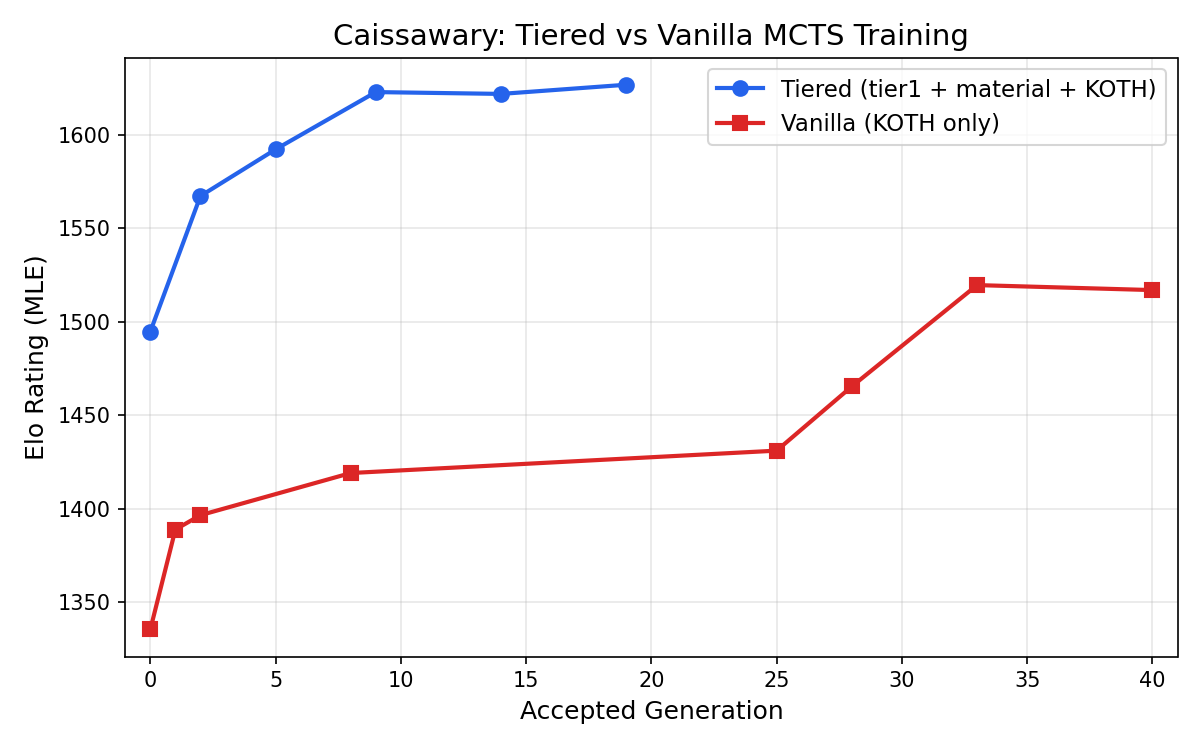
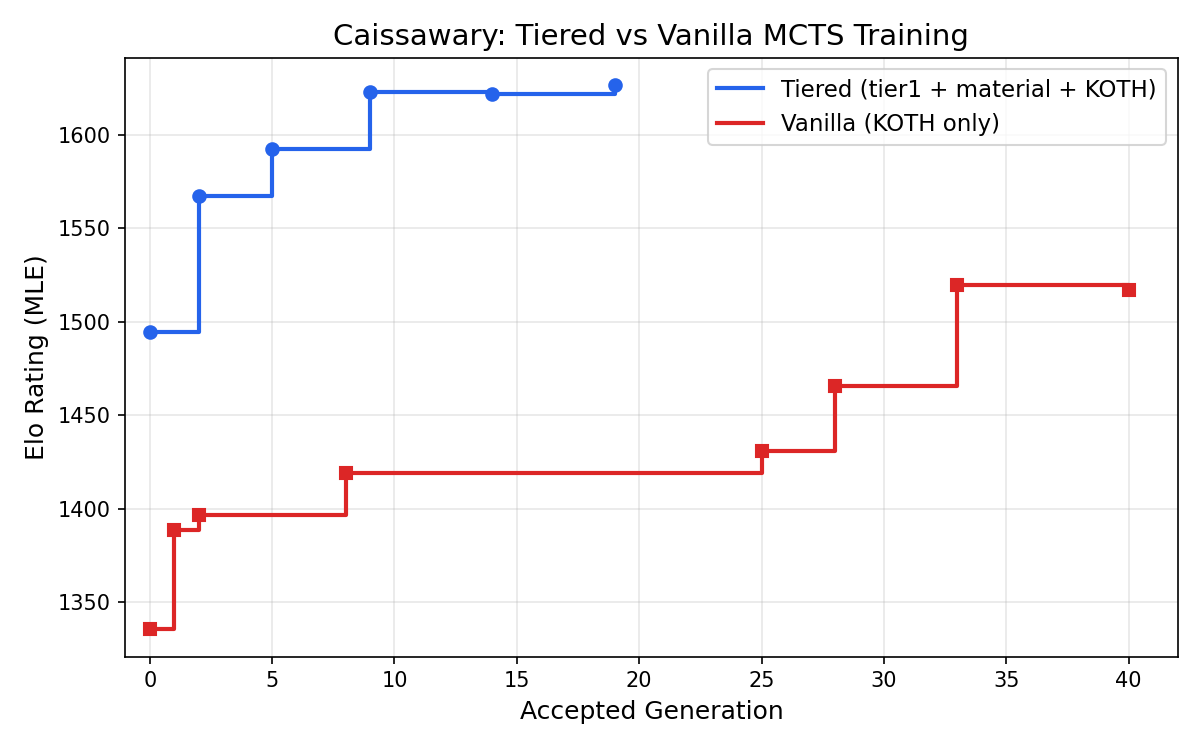
Use step plot for Elo-vs-generation chart

diff --git a/scripts/plot_tournament.py b/scripts/plot_tournament.py
@@ -106,19 +106,21 @@ def main():
     vanilla_gens = sorted(vanilla.keys())
     vanilla_elos = [vanilla[g] for g in vanilla_gens]
 
-    # Plot
+    # Plot as step functions: Elo is constant between accepted generations
     fig, ax = plt.subplots(figsize=(8, 5))
-    ax.plot(tiered_gens, tiered_elos, "o-", color="#2563eb", linewidth=2,
-            markersize=7, label="Tiered (tier1 + material + KOTH)", zorder=3)
-    ax.plot(vanilla_gens, vanilla_elos, "s-", color="#dc2626", linewidth=2,
-            markersize=7, label="Vanilla (KOTH only)", zorder=3)
+    ax.step(tiered_gens, tiered_elos, where="post", color="#2563eb", linewidth=2,
+            label="Tiered (tier1 + material + KOTH)", zorder=3)
+    ax.plot(tiered_gens, tiered_elos, "o", color="#2563eb", markersize=6, zorder=4)
+    ax.step(vanilla_gens, vanilla_elos, where="post", color="#dc2626", linewidth=2,
+            label="Vanilla (KOTH only)", zorder=3)
+    ax.plot(vanilla_gens, vanilla_elos, "s", color="#dc2626", markersize=6, zorder=4)
 
     ax.set_xlabel("Accepted Generation", fontsize=12)
     ax.set_ylabel("Elo Rating (MLE)", fontsize=12)
     ax.set_title("Caissawary: Tiered vs Vanilla MCTS Training", fontsize=14)
     ax.legend(fontsize=11)
     ax.grid(True, alpha=0.3)
-    ax.set_xlim(-1, max(max(tiered_gens), max(vanilla_gens)) + 1)
+    ax.set_xlim(-1, max(max(tiered_gens), max(vanilla_gens)) + 2)
 
     plt.tight_layout()
     out_path = csv_path.replace(".csv", "_elo_plot.png")
